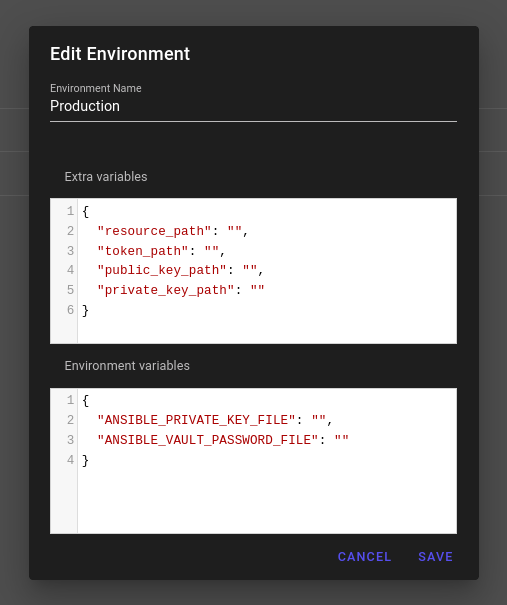
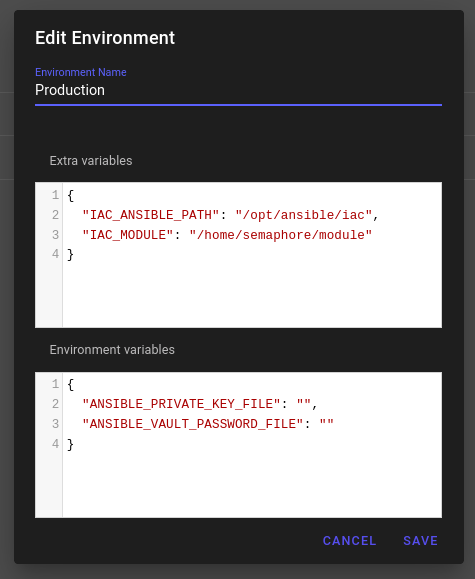
Set variables to IaC partner

Changed region(s): [[0.0295, 0.0, 1.0, 0.9948], [0.1768, 0.6839, 0.7074, 0.7461], [0.5011, 0.4663, 0.5305, 0.4974]]

diff --git a/src/IaC/README.md b/src/IaC/README.md
@@ -198,22 +198,20 @@ __proxmox/group_vars/proxmox/vault.yml__
 
     ![Image showing the environment configuration](assets/environment_v1.png "Environment configuration")
   
-    By default, the data in the __module__ folder goes to */home/semaphore* and can be:
+    By default, the data in the __module__ folder goes to */home/semaphore/module* and can be:
     ```json
-    {
-      "resource_path": "/home/semaphore/resources",
-      "token_path": "/home/semaphore/security/tokens",
-      "public_key_path": "/home/semaphore/security/public-keys",
-      "private_key_path": "/home/semaphore/security/private-keys"
+    {      
+      "IAC_ANSIBLE_PATH": "/opt/ansible/iac",
+      "IAC_MODULE": "/home/semaphore/module"
     }
     ```
 
     For ansible to always use the SSH private key, enter its location in the __ANSIBLE_PRIVATE_KEY_FILE__ variable.
-    > SIf the __vault.yml__ files are encrypted, the __ANSIBLE_VAULT_PASSWORD_FILE__ variable can be set to find out which file contains the decryption key.
+    > If the __vault.yml__ files are encrypted, the __ANSIBLE_VAULT_PASSWORD_FILE__ variable can be set to find out which file contains the decryption key.
     ```json
     {
-      "ANSIBLE_PRIVATE_KEY_FILE": "/home/semaphore/security/private-keys/ansible-key",
-      "ANSIBLE_VAULT_PASSWORD_FILE": "/home/semaphore/security/vault/production.key"
+      "ANSIBLE_PRIVATE_KEY_FILE": "/home/semaphore/module/security/private-keys/ansible-key",
+      "ANSIBLE_VAULT_PASSWORD_FILE": "/home/semaphore/module/security/vault/production.key"
     }
     ```
 
